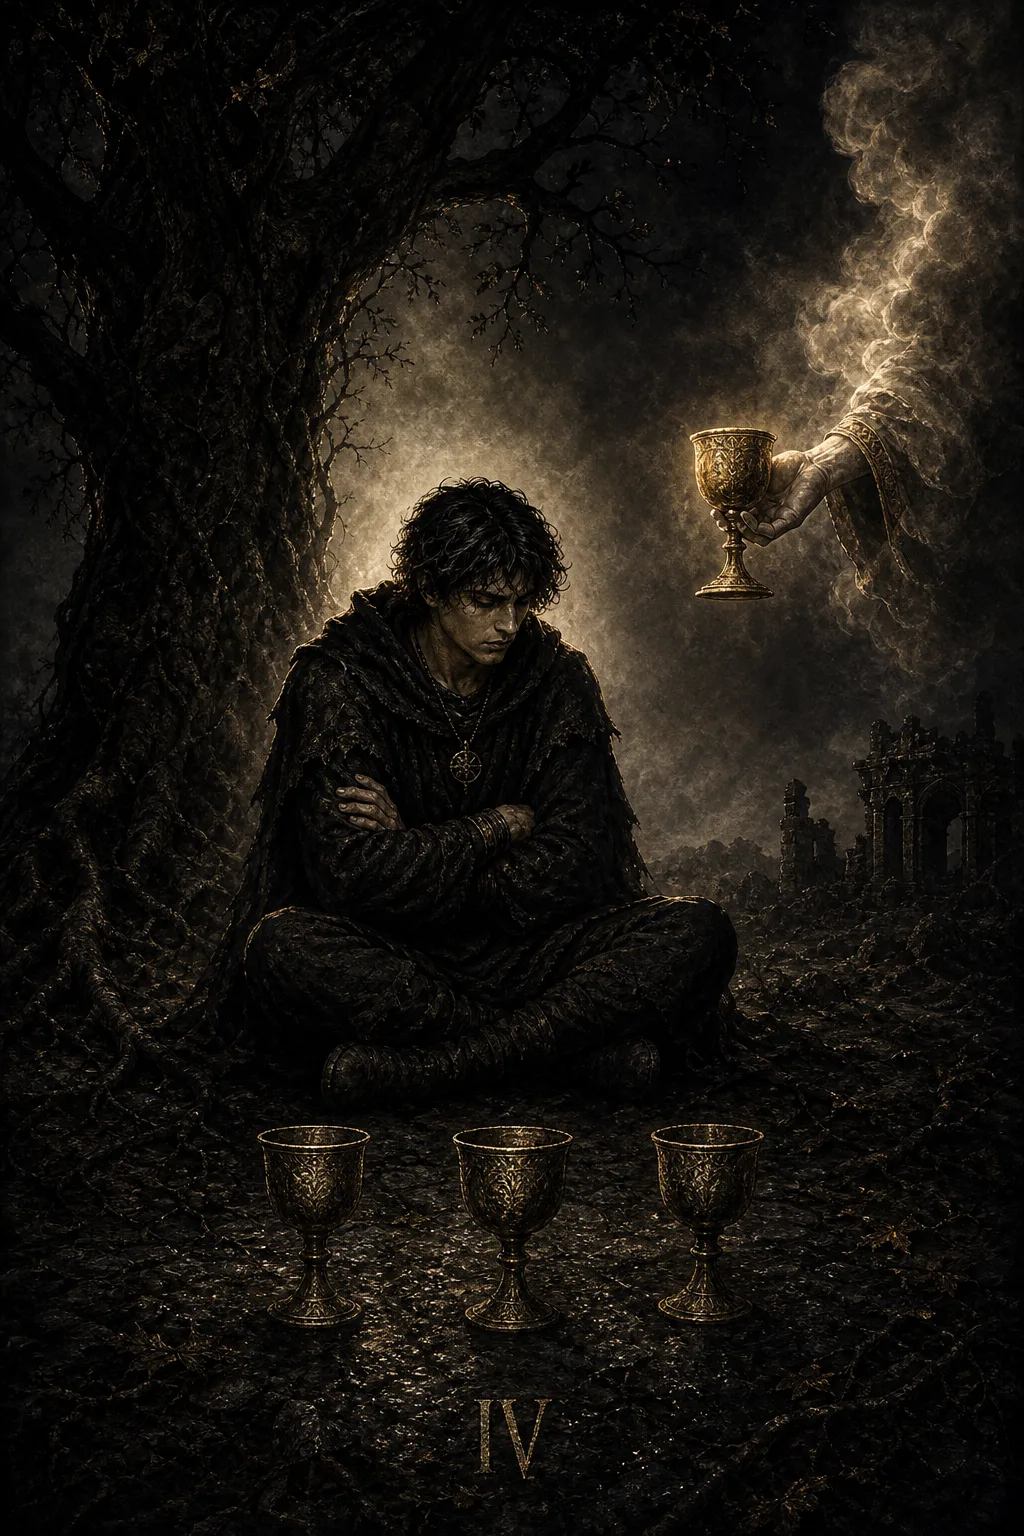
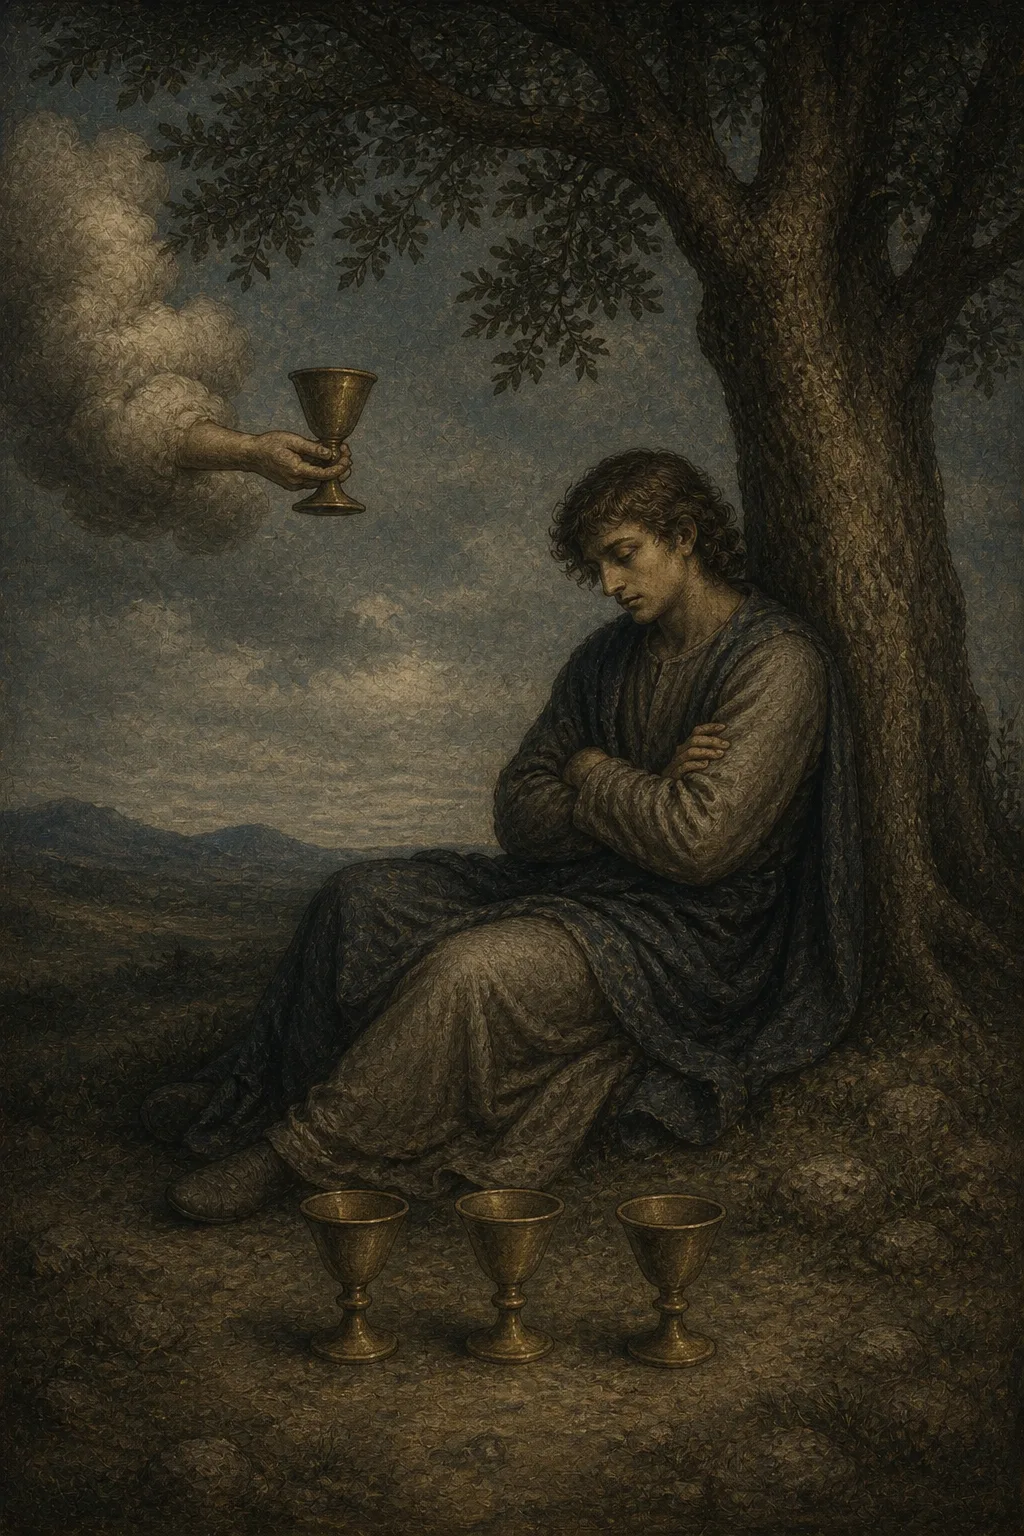
Regenerate ten minor arcana artworks

diff --git a/public/assets/cards.js b/public/assets/cards.js
@@ -2449,7 +2449,7 @@ export const TAROT_CARDS = [
     streetName: 'Не хочу',
     streetText: 'Не отшивай всё подряд. Может, ты не против, а просто устал.',
     visualHint: 'сидящий человек под деревом, три кубка перед ним, четвёртый кубок протянут из дыма',
-    image: 'assets/cards/four-of-cups.webp',
+    image: 'assets/cards/four-of-cups.webp?v=20260827-minor-iii',
     num: 'IV',
     symbol: '◇',
     result: {
@@ -2527,7 +2527,7 @@ export const TAROT_CARDS = [
     streetName: 'Не всё пролито',
     streetText: 'Да, что-то пошло не так. Но не делай вид, будто вместе с этим исчезло вообще всё.',
     visualHint: 'фигура в плаще, три опрокинутых кубка, два стоящих кубка, вода, мост и дальний замок',
-    image: 'assets/cards/five-of-cups.webp',
+    image: 'assets/cards/five-of-cups.webp?v=20260827-minor-iii',
     num: 'V',
     symbol: '◇',
     result: {
@@ -2605,7 +2605,7 @@ export const TAROT_CARDS = [
     streetName: 'Монета шанса',
     streetText: 'Смотри не на мечту, а на то, что уже можно взять в руки и начать растить.',
     visualHint: 'рука из дыма, один крупный пентакль, сад, ворота, дорога к горам',
-    image: 'assets/cards/ace-of-pentacles.webp',
+    image: 'assets/cards/ace-of-pentacles.webp?v=20260827-minor-iii',
     num: 'I',
     symbol: '◆',
     result: {
@@ -2683,7 +2683,7 @@ export const TAROT_CARDS = [
     streetName: 'Жонглёр дел',
     streetText: 'День будет качать. Не стой столбом — перекидывай вес и держи главное.',
     visualHint: 'две монеты-пентакля, петля бесконечности, фигура в движении, волны и два корабля',
-    image: 'assets/cards/two-of-pentacles.webp',
+    image: 'assets/cards/two-of-pentacles.webp?v=20260827-minor-iii',
     num: 'II',
     symbol: '◆',
     result: {
@@ -2761,7 +2761,7 @@ export const TAROT_CARDS = [
     streetName: 'Весы ресурса',
     streetText: 'Не раздавай себя без счёта. И помощь просить тоже не стыдно.',
     visualHint: 'шесть пентаклей, фигура с весами, раздача монет, две фигуры у ног',
-    image: 'assets/cards/six-of-pentacles.webp',
+    image: 'assets/cards/six-of-pentacles.webp?v=20260827-minor-iii',
     num: 'VI',
     symbol: '◆',
     result: {
@@ -2839,7 +2839,7 @@ export const TAROT_CARDS = [
     streetName: 'Три мастера',
     streetText: 'Не строй всё один. Покажи работу, уточни план и не обижайся на полезную правку.',
     visualHint: 'мастер в храме, две фигуры с планом, три пентакля в арке, совместное строительство',
-    image: 'assets/cards/three-of-pentacles.webp',
+    image: 'assets/cards/three-of-pentacles.webp?v=20260827-minor-iv',
     num: 'III',
     symbol: '◆',
     result: {
@@ -2917,7 +2917,7 @@ export const TAROT_CARDS = [
     streetName: 'Сейф на ногах',
     streetText: 'Береги своё, но не превращай жизнь в запертый сундук.',
     visualHint: 'сидящая фигура, один пентакль у груди, один над головой, два под ногами, город на фоне',
-    image: 'assets/cards/four-of-pentacles.webp',
+    image: 'assets/cards/four-of-pentacles.webp?v=20260827-minor-iv',
     num: 'IV',
     symbol: '◆',
     result: {
@@ -2995,7 +2995,7 @@ export const TAROT_CARDS = [
     streetName: 'Окно со светом',
     streetText: 'Если тяжело, скажи прямо. Иногда помощь ближе, чем кажется.',
     visualHint: 'две фигуры в снегу, освещённое окно, пять пентаклей, холод и помощь рядом',
-    image: 'assets/cards/five-of-pentacles.webp',
+    image: 'assets/cards/five-of-pentacles.webp?v=20260827-minor-iv',
     num: 'V',
     symbol: '◆',
     result: {
@@ -3078,7 +3078,7 @@ export const TAROT_CARDS = [
     streetName: 'Ждать урожай',
     streetText: 'Не дёргай росток каждые пять минут. Посмотри, что уже выросло, и реши, куда дальше вкладываться.',
     visualHint: 'садовник, длинный инструмент, семь пентаклей на лозе, пауза перед урожаем',
-    image: 'assets/cards/seven-of-pentacles.webp',
+    image: 'assets/cards/seven-of-pentacles.webp?v=20260827-minor-iv',
     num: 'VII',
     symbol: '◆',
     result: {
@@ -3156,7 +3156,7 @@ export const TAROT_CARDS = [
     streetName: 'Мастерская',
     streetText: 'Не геройствуй. Просто сделай свою работу нормально, шаг за шагом.',
     visualHint: 'мастерская, монеты-пентакли, свеча, руки, кропотливая работа',
-    image: 'assets/cards/eight-of-pentacles.webp',
+    image: 'assets/cards/eight-of-pentacles.webp?v=20260827-minor-iv',
     num: 'VIII',
     symbol: '◆',
     result: {

diff --git a/public/ritual/index.html b/public/ritual/index.html
@@ -63,8 +63,8 @@
     <link rel="stylesheet" href="/assets/fonts.css" />
     <link rel="preload" as="image" href="/assets/3d/mora-card-back.webp" fetchpriority="high" />
     <link rel="preload" as="fetch" href="/assets/3d/mora-card.glb?v=20260821-stripface1" type="model/gltf-binary" crossorigin fetchpriority="high" />
-    <link rel="modulepreload" href="./app.js?v=20260826-minor-ii" />
-    <link rel="modulepreload" href="/assets/cards.js?v=20260826-minor-ii" />
+    <link rel="modulepreload" href="./app.js?v=20260827-minor-iv" />
+    <link rel="modulepreload" href="/assets/cards.js?v=20260827-minor-iv" />
     <link rel="modulepreload" href="./daily-3d.js?v=20260825-cardmatch2" />
     <link rel="modulepreload" href="./spread-deck-3d.js?v=20260825-cardmatch2" />
     <link rel="modulepreload" href="/vendor/three/0.180.0/build/three.module.js" />
@@ -467,6 +467,6 @@
       </div>
     </section>
 
-    <script type="module" src="./app.js?v=20260826-minor-ii"></script>
+    <script type="module" src="./app.js?v=20260827-minor-iv"></script>
   </body>
 </html>

diff --git a/public/ritual/app.js b/public/ritual/app.js
@@ -1,4 +1,4 @@
-import { TAROT_CARDS } from "/assets/cards.js?v=20260826-minor-ii";
+import { TAROT_CARDS } from "/assets/cards.js?v=20260827-minor-iv";
 import { mountDailyDeck3D } from "./daily-3d.js?v=20260825-cardmatch2";
 import { mountSpreadDeck3D } from "./spread-deck-3d.js?v=20260825-cardmatch2";
 

diff --git a/docs/decisions.md b/docs/decisions.md
@@ -6,6 +6,30 @@
 
 ---
 
+## 2026-08-27 — Четвёртая пятёрка Младших арканов интегрирована после общего аппрува
+
+**Что:** `three-of-pentacles`, `four-of-pentacles`, `five-of-pentacles`, `seven-of-pentacles` и `eight-of-pentacles` получили `approved-final` и заменили прежние canonical WebP. Все пять имеют `1024×1536`, закодированы `cwebp -q 82`, весят `302–399 KB` и получили cache-bust `20260827-minor-iv`; версия синхронно обновлена на import/preload `cards.js` и `app.js`. RWS-контракты сохранены: Тройка показывает трёх участников работы и три пентакля; Четвёрка — один диск над головой, один у груди и два под ногами; Пятёрка — двух путников, две костыли, перевязанную ногу и пять пентаклей в окне; Семёрка — одного работника у лозы с семью дисками; Восьмёрка — одного мастера и точные восемь дисков в схеме `6+1+1`. ID, тексты, CSS, GLB и flow не менялись; artwork не содержит встроенных номеров, текста, рамок или footer-плашек.
+
+**Почему:** Автор явно утвердил весь финальный набор. Первый кандидат Восьмёрки отклонён как объективно неканоничный из-за лишних пентаклей; исправленный вариант сохраняет точное количество. Пятёрка дополнительно перегенерирована по композиционному фидбеку автора: люди сдвинуты к центру и больше не рискуют обрезаться, а пять оконных символов остаются полностью читаемыми.
+
+**Кто:** автор + агент.
+
+## 2026-08-27 — Третья пятёрка Младших арканов интегрирована после общего аппрува
+
+**Что:** `four-of-cups`, `five-of-cups`, `ace-of-pentacles`, `two-of-pentacles` и `six-of-pentacles` получили `approved-final` и заменили прежние canonical WebP. Все пять имеют `1024×1536`, закодированы `cwebp -q 82`, весят `242–403 KB` и получили cache-bust `20260827-minor-iii`; та же версия поставлена на import/preload `cards.js` и `app.js`, потому что старый URL каталога сначала оставил в local QA прежний Туз Пентаклей. После исправления localhost вернул новый WebP с SHA-256, совпадающим с canonical файлом. ID, тексты, CSS, GLB и flow не менялись. RWS-контракты сохранены: Четвёрка показывает три кубка на земле и один предлагаемый; Пятёрка — три опрокинутых и два стоящих; Туз — одну руку и один пентакль над садовой аркой; Двойка — два пентакля в одной ленте-бесконечности и два корабля; Шестёрка — одного раздающего, двух коленопреклонённых, весы и ровно шесть пентаклей. Artwork не содержит встроенных номеров, текста, рамок или footer-плашек.
+
+**Почему:** После просмотра полного batch автор подтвердил: если канонические количества и отношения объектов соблюдены, все пять кандидатов одобрены. `four-of-cups` выбрана автором из первого варианта; отмеченный агентом safe-area риск не является самостоятельным основанием для перегенерации.
+
+**Кто:** автор + агент.
+
+## 2026-08-27 — Safe-area риск показывает агент, решение о перегенерации принимает автор
+
+**Что:** В карточных batch safe area `80% × 90%` остаётся обязательной частью prompt и самопроверки, но агент больше не отклоняет и не перегенерирует визуал самостоятельно только из-за близости композиции к safe-area границе. Агент явно показывает конкретный crop/spacing-риск вместе с кандидатом; `оставить / перегенерировать` решает автор. Самостоятельный rejection сохраняется для объективных ошибок канона и production-artwork: неверных количеств или отношений объектов, текста, номера, рамки и других запрещённых элементов.
+
+**Почему:** Автор считает прежний safe-area gate чрезмерно строгим и хочет лично принимать визуальное решение по каждому пограничному кандидату.
+
+**Кто:** автор.
+
 ## 2026-08-26 — Вторая пятёрка Младших арканов интегрирована с composition-safe area
 
 **Что:** `king-of-cups`, `queen-of-cups`, `two-of-swords`, `four-of-swords` и `three-of-cups` заменены approved-final clean artwork в canonical `public/assets/cards/*.webp`. Все пять имеют `1024×1536`, закодированы `cwebp -q 82`, весят `296–406 KB` и получили cache-bust `20260826-minor-ii`; ID, тексты, CSS, GLB и flow не менялись. Новая safe area `80% × 90%` применена как обязательный rejection-gate: первые варианты Короля, Четвёрки и Тройки были отклонены из-за композиции у боковых бортов, а Двойка получила дополнительный нижний запас. Первый вызов Королевы был остановлен safety-системой без результата; нейтральный повтор сохранил канон. Обе утверждённые пятёрки выпущены release commit `df445d3` в production deployment `dpl_HrqCNqzxdq3zc8nkLFYNwByJWBm1`; canonical alias, cache-key, WebP и guest auth-boundary прошли smoke. Старые canonical изображения заменены, source/candidate-дубли в production tree не оставлены.

diff --git a/.agents/skills/mora-card-regeneration/references/master-spec.md b/.agents/skills/mora-card-regeneration/references/master-spec.md
@@ -24,7 +24,7 @@
 - Внутренняя composition-safe area — центральные `80%` ширины и `90%` высоты canvas. Внешние `10%` слева/справа и `5%` сверху/снизу считаются bleed-зоной: там разрешён только продолжающийся фон и повторяемая атмосфера без уникальной сюжетной информации.
 - Все смысловые фигуры целиком, лица, руки, взаимодействующие группы, точные количества предметов и ключевые символы обязаны помещаться внутри composition-safe area. Если канон зависит от взаимного положения объектов, внутри safe area должна помещаться вся эта связка, а не только её центр.
 - UI/WebGL `cover` может потерять примерно по `6%` исходника с каждой стороны; оставшиеся дополнительные `4%` с каждой стороны — обязательный визуальный зазор между композицией и внутренним бортом карты.
-- Prompt каждой будущей генерации явно повторяет safe area `80% × 90%`. Кандидат отклоняется до аппрува, если рамка или `cover`-crop касается лица, руки, фигуры, счётного предмета, ключевого символа либо делает композицию визуально зажатой.
+- Prompt каждой будущей генерации явно повторяет safe area `80% × 90%`. Если рамка или `cover`-crop касается лица, руки, фигуры, счётного предмета, ключевого символа либо делает композицию визуально зажатой, агент явно подсвечивает автору конкретный риск, но не отклоняет и не перегенерирует кандидат самостоятельно только по safe-area основанию; финальное решение принимает автор.
 - Нижние `15%` остаются настоящим продолжением сцены, а не пустым footer.
 - Генератор не рисует номер, rank letter, footer symbol, линию или plaque: artwork остаётся без маркеров и доходит до нижнего края полноценной сценой.
 - Главный субъект занимает ориентировочно `55–75%` высоты и читается в маленькой карточке.
